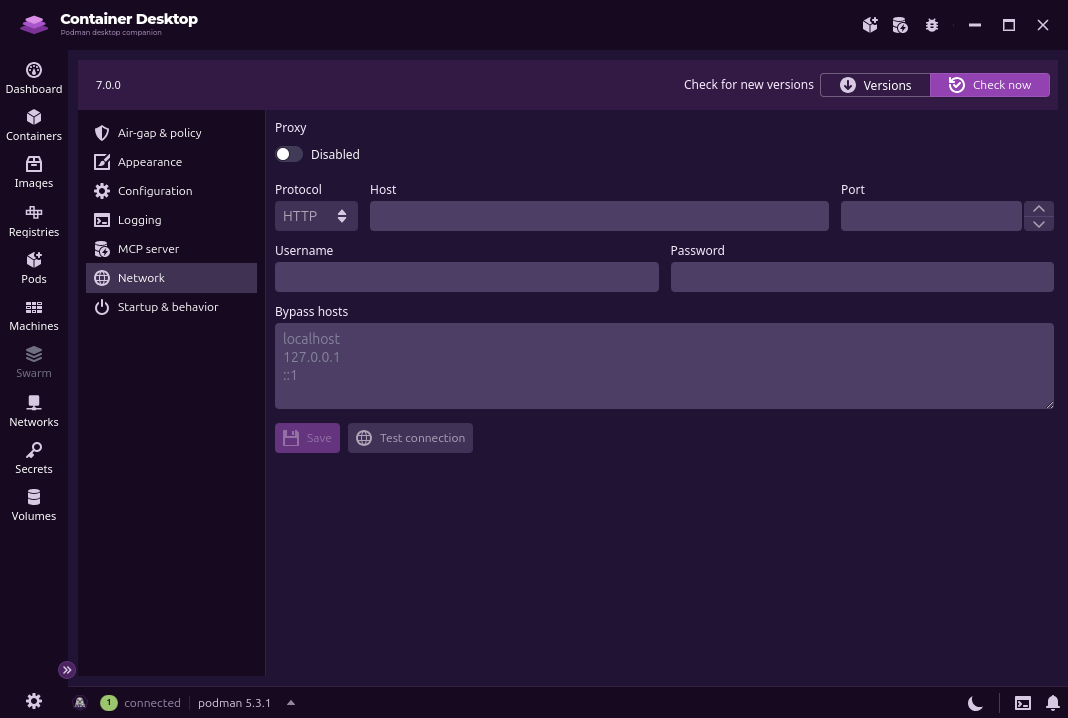
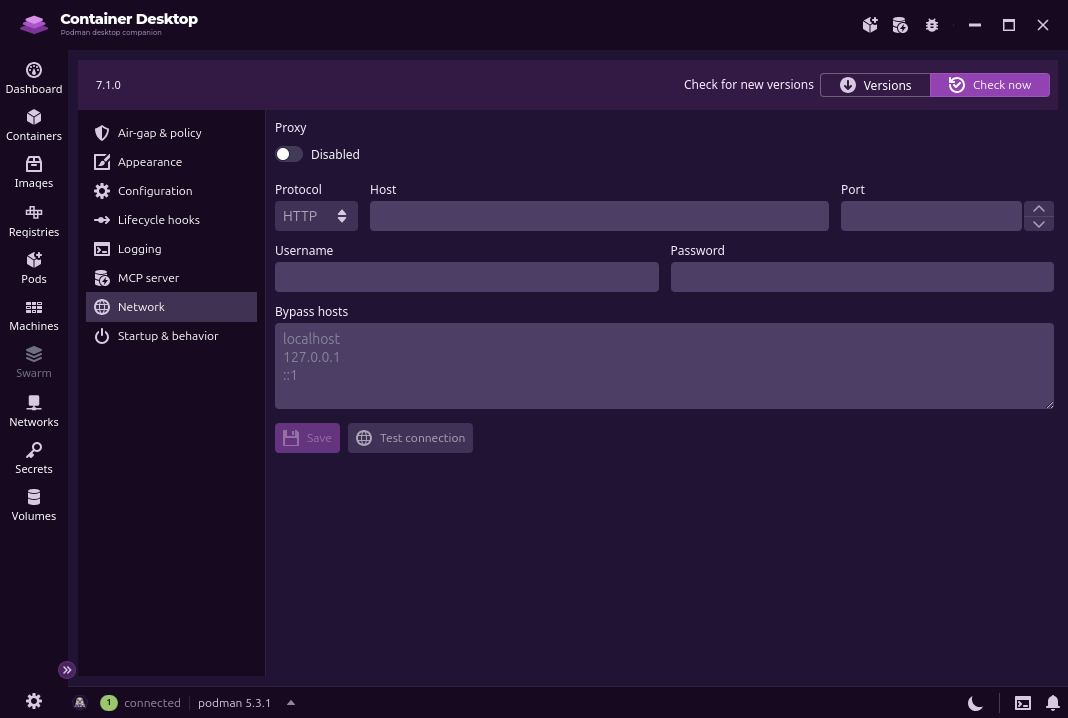
Release 7.1.0

Changed region(s): [[0.0618, 0.2758, 0.2472, 0.4903]]

diff --git a/website/index.html b/website/index.html
@@ -1,5 +1,5 @@
 <!DOCTYPE html>
-<html lang="en" data-version="7.0.0" data-theme="unified">
+<html lang="en" data-version="7.1.0" data-theme="unified">
 <head>
 <meta charset="UTF-8">
 <meta name="viewport" content="width=device-width, initial-scale=1.0">
@@ -7,11 +7,11 @@
 <title>Container Desktop — Podman, Docker &amp; Apple™ Container desktop UI for Windows, macOS, Linux</title>
 <meta name="description" content="A familiar, open-source desktop interface for Podman, Docker and Apple™ Container — local, remote over SSH, and WSL, the same UI on Windows, macOS and Linux. Free, MIT licensed.">
 <link rel="canonical" href="https://iongion.github.io/container-desktop/">
-<link rel="icon" href="/container-desktop/favicon.ico?v=7.0.0" type="image/x-icon">
-<link rel="icon" type="image/png" sizes="32x32" href="/container-desktop/favicon-32x32.png?v=7.0.0">
-<link rel="icon" type="image/png" sizes="16x16" href="/container-desktop/favicon-16x16.png?v=7.0.0">
-<link rel="apple-touch-icon" href="/container-desktop/apple-touch-icon.png?v=7.0.0">
-<link rel="mask-icon" href="/container-desktop/safari-pinned-tab.svg?v=7.0.0" color="#14b8a6">
+<link rel="icon" href="/container-desktop/favicon.ico?v=7.1.0" type="image/x-icon">
+<link rel="icon" type="image/png" sizes="32x32" href="/container-desktop/favicon-32x32.png?v=7.1.0">
+<link rel="icon" type="image/png" sizes="16x16" href="/container-desktop/favicon-16x16.png?v=7.1.0">
+<link rel="apple-touch-icon" href="/container-desktop/apple-touch-icon.png?v=7.1.0">
+<link rel="mask-icon" href="/container-desktop/safari-pinned-tab.svg?v=7.1.0" color="#14b8a6">
 <link rel="manifest" href="/container-desktop/site.webmanifest">
 <meta name="theme-color" content="#0f1521">
 <meta name="msapplication-config" content="/container-desktop/browserconfig.xml">
@@ -29,7 +29,7 @@
 <link rel="preconnect" href="https://fonts.gstatic.com" crossorigin="">
 <link href="https://fonts.googleapis.com/css2?family=Montserrat:wght@300;400;500;600;700;800&family=JetBrains+Mono:wght@400;600&display=swap" rel="stylesheet">
 <link rel="stylesheet" href="https://cdnjs.cloudflare.com/ajax/libs/font-awesome/6.6.0/css/all.min.css" referrerpolicy="no-referrer">
-<link rel="stylesheet" href="/container-desktop/assets/css/site.css?v=7.0.0">
+<link rel="stylesheet" href="/container-desktop/assets/css/site.css?v=7.1.0">
 <script type="application/ld+json">
 {
   "@context": "https://schema.org",
@@ -47,7 +47,7 @@
 </script>
 </head>
 <body>
-  <div class="announce"><span class="mono">★ v7.0.0</span><span>Open-source desktop UI for Podman, Docker &amp; Apple™ Container —</span><a href="/container-desktop/#download">download free →</a></div>
+  <div class="announce"><span class="mono">★ v7.1.0</span><span>Open-source desktop UI for Podman, Docker &amp; Apple™ Container —</span><a href="/container-desktop/#download">download free →</a></div>
   <header class="nav"><div class="wrap">
   <a class="brand" href="/container-desktop/"><span class="mark"><svg class="brand-mark" viewBox="0 0 270.93334 270.93334" xmlns="http://www.w3.org/2000/svg" aria-hidden="true" focusable="false">
   <rect x="14" y="14" width="242.93334" height="242.93334" rx="58" fill="var(--mark-bg, #0f1420)"></rect>
@@ -216,7 +216,7 @@
       <div class="os"><i class="fab fa-linux"></i></div>
       <h4>Linux</h4>
       <div class="meta">x86_64 · arm64</div>
-      <a class="btn btn-primary get" href="https://github.com/iongion/container-desktop/releases/download/7.0.0/container-desktop-linux-amd64-7.0.0.deb"><i class="fa-solid fa-download"></i><span class="get-label">Download .deb</span></a>
+      <a class="btn btn-primary get" href="https://github.com/iongion/container-desktop/releases/download/7.1.0/container-desktop-linux-amd64-7.1.0.deb"><i class="fa-solid fa-download"></i><span class="get-label">Download .deb</span></a>
       <div class="fmt">Debian/Ubuntu <b>.deb</b> package</div>
 
       <div class="dl-menu dl-package-menu">
@@ -230,11 +230,11 @@
           <div class="dl-package-row">
             <div class="dl-package-kind"><span class="dl-option-head"><span class="dl-option-title">Debian / Ubuntu</span><span class="dl-option-badge">.deb</span></span></div>
 
-            <a class="dl-menu-option" href="https://github.com/iongion/container-desktop/releases/download/7.0.0/container-desktop-linux-amd64-7.0.0.deb" data-primary="true" data-format="deb" data-arch="x64" data-label="Download .deb" data-note="Debian/Ubuntu &lt;b&gt;.deb&lt;/b&gt; package" data-text="Debian / Ubuntu · x86_64 (.deb)">
+            <a class="dl-menu-option" href="https://github.com/iongion/container-desktop/releases/download/7.1.0/container-desktop-linux-amd64-7.1.0.deb" data-primary="true" data-format="deb" data-arch="x64" data-label="Download .deb" data-note="Debian/Ubuntu &lt;b&gt;.deb&lt;/b&gt; package" data-text="Debian / Ubuntu · x86_64 (.deb)">
               <span class="dl-arch-meta">x86_64</span>
             </a>
 
-            <a class="dl-menu-option" href="https://github.com/iongion/container-desktop/releases/download/7.0.0/container-desktop-linux-arm64-7.0.0.deb" data-primary="false" data-format="deb" data-arch="arm64" data-label="Download .deb" data-note="Debian/Ubuntu &lt;b&gt;.deb&lt;/b&gt; package" data-text="Debian / Ubuntu · arm64 (.deb)">
+            <a class="dl-menu-option" href="https://github.com/iongion/container-desktop/releases/download/7.1.0/container-desktop-linux-arm64-7.1.0.deb" data-primary="false" data-format="deb" data-arch="arm64" data-label="Download .deb" data-note="Debian/Ubuntu &lt;b&gt;.deb&lt;/b&gt; package" data-text="Debian / Ubuntu · arm64 (.deb)">
               <span class="dl-arch-meta">arm64</span>
             </a>
 
@@ -243,11 +243,11 @@
           <div class="dl-package-row">
             <div class="dl-package-kind"><span class="dl-option-head"><span class="dl-option-title">Fedora / RHEL</span><span class="dl-option-badge">.rpm</span></span></div>
 
-            <a class="dl-menu-option" href="https://github.com/iongion/container-desktop/releases/download/7.0.0/container-desktop-linux-x86_64-7.0.0.rpm" data-primary="false" data-format="rpm" data-arch="x64" data-label="Download .rpm" data-note="Fedora/RHEL &lt;b&gt;.rpm&lt;/b&gt; package" data-text="Fedora / RHEL · x86_64 (.rpm)">
+            <a class="dl-menu-option" href="https://github.com/iongion/container-desktop/releases/download/7.1.0/container-desktop-linux-x86_64-7.1.0.rpm" data-primary="false" data-format="rpm" data-arch="x64" data-label="Download .rpm" data-note="Fedora/RHEL &lt;b&gt;.rpm&lt;/b&gt; package" data-text="Fedora / RHEL · x86_64 (.rpm)">
               <span class="dl-arch-meta">x86_64</span>
             </a>
 
-            <a class="dl-menu-option" href="https://github.com/iongion/container-desktop/releases/download/7.0.0/container-desktop-linux-aarch64-7.0.0.rpm" data-primary="false" data-format="rpm" data-arch="arm64" data-label="Download .rpm" data-note="Fedora/RHEL &lt;b&gt;.rpm&lt;/b&gt; package" data-text="Fedora / RHEL · arm64 (.rpm)">
+            <a class="dl-menu-option" href="https://github.com/iongion/container-desktop/releases/download/7.1.0/container-desktop-linux-aarch64-7.1.0.rpm" data-primary="false" data-format="rpm" data-arch="arm64" data-label="Download .rpm" data-note="Fedora/RHEL &lt;b&gt;.rpm&lt;/b&gt; package" data-text="Fedora / RHEL · arm64 (.rpm)">
               <span class="dl-arch-meta">arm64</span>
             </a>
 
@@ -256,11 +256,11 @@
           <div class="dl-package-row">
             <div class="dl-package-kind"><span class="dl-option-head"><span class="dl-option-title">Portable tarball</span><span class="dl-option-badge">.tar.gz</span></span></div>
 
-            <a class="dl-menu-option" href="https://github.com/iongion/container-desktop/releases/download/7.0.0/container-desktop-linux-x64-7.0.0.tar.gz" data-primary="false" data-format="tar.gz" data-arch="x64" data-label="Download .tar.gz" data-note="Portable &lt;b&gt;tarball&lt;/b&gt; — unpack &amp;amp; run" data-text="Portable tarball · x86_64 (.tar.gz)">
+            <a class="dl-menu-option" href="https://github.com/iongion/container-desktop/releases/download/7.1.0/container-desktop-linux-x64-7.1.0.tar.gz" data-primary="false" data-format="tar.gz" data-arch="x64" data-label="Download .tar.gz" data-note="Portable &lt;b&gt;tarball&lt;/b&gt; — unpack &amp;amp; run" data-text="Portable tarball · x86_64 (.tar.gz)">
               <span class="dl-arch-meta">x86_64</span>
             </a>
 
-            <a class="dl-menu-option" href="https://github.com/iongion/container-desktop/releases/download/7.0.0/container-desktop-linux-arm64-7.0.0.tar.gz" data-primary="false" data-format="tar.gz" data-arch="arm64" data-label="Download .tar.gz" data-note="Portable &lt;b&gt;tarball&lt;/b&gt; — unpack &amp;amp; run" data-text="Portable tarball · arm64 (.tar.gz)">
+            <a class="dl-menu-option" href="https://github.com/iongion/container-desktop/releases/download/7.1.0/container-desktop-linux-arm64-7.1.0.tar.gz" data-primary="false" data-format="tar.gz" data-arch="arm64" data-label="Download .tar.gz" data-note="Portable &lt;b&gt;tarball&lt;/b&gt; — unpack &amp;amp; run" data-text="Portable tarball · arm64 (.tar.gz)">
               <span class="dl-arch-meta">arm64</span>
             </a>
 
@@ -269,11 +269,11 @@
           <div class="dl-package-row">
             <div class="dl-package-kind"><span class="dl-option-head"><span class="dl-option-title">AppImage</span><span class="dl-option-badge">.AppImage</span></span></div>
 
-            <a class="dl-menu-option" href="https://github.com/iongion/container-desktop/releases/download/7.0.0/container-desktop-linux-x86_64-7.0.0.AppImage" data-primary="false" data-format="AppImage" data-arch="x64" data-label="Download .AppImage" data-note="Portable &lt;b&gt;AppImage&lt;/b&gt; — make executable &amp;amp; run" data-text="AppImage · x86_64 (.AppImage)">
+            <a class="dl-menu-option" href="https://github.com/iongion/container-desktop/releases/download/7.1.0/container-desktop-linux-x86_64-7.1.0.AppImage" data-primary="false" data-format="AppImage" data-arch="x64" data-label="Download .AppImage" data-note="Portable &lt;b&gt;AppImage&lt;/b&gt; — make executable &amp;amp; run" data-text="AppImage · x86_64 (.AppImage)">
               <span class="dl-arch-meta">x86_64</span>
             </a>
 
-            <a class="dl-menu-option" href="https://github.com/iongion/container-desktop/releases/download/7.0.0/container-desktop-linux-arm64-7.0.0.AppImage" data-primary="false" data-format="AppImage" data-arch="arm64" data-label="Download .AppImage" data-note="Portable &lt;b&gt;AppImage&lt;/b&gt; — make executable &amp;amp; run" data-text="AppImage · arm64 (.AppImage)">
+            <a class="dl-menu-option" href="https://github.com/iongion/container-desktop/releases/download/7.1.0/container-desktop-linux-arm64-7.1.0.AppImage" data-primary="false" data-format="AppImage" data-arch="arm64" data-label="Download .AppImage" data-note="Portable &lt;b&gt;AppImage&lt;/b&gt; — make executable &amp;amp; run" data-text="AppImage · arm64 (.AppImage)">
               <span class="dl-arch-meta">arm64</span>
             </a>
 
@@ -282,11 +282,11 @@
           <div class="dl-package-row">
             <div class="dl-package-kind"><span class="dl-option-head"><span class="dl-option-title">Arch Linux</span><span class="dl-option-badge">.pacman</span></span></div>
 
-            <a class="dl-menu-option" href="https://github.com/iongion/container-desktop/releases/download/7.0.0/container-desktop-linux-x64-7.0.0.pacman" data-primary="false" data-format="pacman" data-arch="x64" data-label="Download .pacman" data-note="Arch Linux &lt;b&gt;pacman&lt;/b&gt; package" data-text="Arch Linux · x86_64 (.pacman)">
+            <a class="dl-menu-option" href="https://github.com/iongion/container-desktop/releases/download/7.1.0/container-desktop-linux-x64-7.1.0.pacman" data-primary="false" data-format="pacman" data-arch="x64" data-label="Download .pacman" data-note="Arch Linux &lt;b&gt;pacman&lt;/b&gt; package" data-text="Arch Linux · x86_64 (.pacman)">
               <span class="dl-arch-meta">x86_64</span>
             </a>
 
-            <a class="dl-menu-option" href="https://github.com/iongion/container-desktop/releases/download/7.0.0/container-desktop-linux-aarch64-7.0.0.pacman" data-primary="false" data-format="pacman" data-arch="arm64" data-label="Download .pacman" data-note="Arch Linux &lt;b&gt;pacman&lt;/b&gt; package" data-text="Arch Linux · arm64 (.pacman)">
+            <a class="dl-menu-option" href="https://github.com/iongion/container-desktop/releases/download/7.1.0/container-desktop-linux-aarch64-7.1.0.pacman" data-primary="false" data-format="pacman" data-arch="arm64" data-label="Download .pacman" data-note="Arch Linux &lt;b&gt;pacman&lt;/b&gt; package" data-text="Arch Linux · arm64 (.pacman)">
               <span class="dl-arch-meta">arm64</span>
             </a>
 
@@ -301,10 +301,10 @@
       <div class="os"><i class="fab fa-apple"></i></div>
       <h4>macOS</h4>
       <div class="meta">Apple silicon</div>
-      <a class="btn btn-primary get" href="https://github.com/iongion/container-desktop/releases/download/7.0.0/container-desktop-mac-arm64-7.0.0.dmg"><i class="fa-solid fa-download"></i><span class="get-label">Download .dmg</span></a>
+      <a class="btn btn-primary get" href="https://github.com/iongion/container-desktop/releases/download/7.1.0/container-desktop-mac-arm64-7.1.0.dmg"><i class="fa-solid fa-download"></i><span class="get-label">Download .dmg</span></a>
       <div class="fmt">Standard <b>.dmg</b> disk image</div>
 
-      <div class="dl-links"><a href="https://github.com/iongion/container-desktop/releases/download/7.0.0/container-desktop-mac-arm64-7.0.0.tar.gz">Portable .tar.gz</a></div>
+      <div class="dl-links"><a href="https://github.com/iongion/container-desktop/releases/download/7.1.0/container-desktop-mac-arm64-7.1.0.tar.gz">Portable .tar.gz</a></div>
 
     </div>
     
@@ -339,11 +339,11 @@
           <div class="dl-package-row">
             <div class="dl-package-kind"><span class="dl-option-head"><span class="dl-option-title">Portable zip</span><span class="dl-option-badge">.zip</span></span></div>
 
-            <a class="dl-menu-option" href="https://github.com/iongion/container-desktop/releases/download/7.0.0/container-desktop-x64-7.0.0.zip" data-primary="false" data-format="zip" data-arch="x64" data-label="Download .zip" data-note="Portable &lt;b&gt;.zip&lt;/b&gt; archive" data-text="Portable zip · x86_64 (.zip)">
+            <a class="dl-menu-option" href="https://github.com/iongion/container-desktop/releases/download/7.1.0/container-desktop-x64-7.1.0.zip" data-primary="false" data-format="zip" data-arch="x64" data-label="Download .zip" data-note="Portable &lt;b&gt;.zip&lt;/b&gt; archive" data-text="Portable zip · x86_64 (.zip)">
               <span class="dl-arch-meta">x86_64</span>
             </a>
 
-            <a class="dl-menu-option" href="https://github.com/iongion/container-desktop/releases/download/7.0.0/container-desktop-arm64-7.0.0.zip" data-primary="false" data-format="zip" data-arch="arm64" data-label="Download .zip" data-note="Portable &lt;b&gt;.zip&lt;/b&gt; archive" data-text="Portable zip · arm64 (.zip)">
+            <a class="dl-menu-option" href="https://github.com/iongion/container-desktop/releases/download/7.1.0/container-desktop-arm64-7.1.0.zip" data-primary="false" data-format="zip" data-arch="arm64" data-label="Download .zip" data-note="Portable &lt;b&gt;.zip&lt;/b&gt; archive" data-text="Portable zip · arm64 (.zip)">
               <span class="dl-arch-meta">arm64</span>
             </a>
 
@@ -393,11 +393,11 @@
 </div></footer>
 
   <script async="" defer="" src="https://buttons.github.io/buttons.js"></script>
-  <script src="/container-desktop/assets/js/os-detect.js?v=7.0.0"></script>
-  <script src="/container-desktop/assets/js/manual-nav.js?v=7.0.0"></script>
-  <script src="/container-desktop/assets/js/theme-switcher.js?v=7.0.0"></script>
+  <script src="/container-desktop/assets/js/os-detect.js?v=7.1.0"></script>
+  <script src="/container-desktop/assets/js/manual-nav.js?v=7.1.0"></script>
+  <script src="/container-desktop/assets/js/theme-switcher.js?v=7.1.0"></script>
 
-  <script src="/container-desktop/assets/js/demo-replay.js?v=7.0.0"></script>
+  <script src="/container-desktop/assets/js/demo-replay.js?v=7.1.0"></script>
 
 </body>
 </html>

diff --git a/website/manual/index.html b/website/manual/index.html
@@ -1,5 +1,5 @@
 <!DOCTYPE html>
-<html lang="en" data-version="7.0.0" data-theme="unified">
+<html lang="en" data-version="7.1.0" data-theme="unified">
 <head>
 <meta charset="UTF-8">
 <meta name="viewport" content="width=device-width, initial-scale=1.0">
@@ -7,11 +7,11 @@
 <title>The Manual — Container Desktop setup guides for Podman, Docker &amp; Apple™ Container</title>
 <meta name="description" content="Set up Podman, Docker and Apple™ Container on Linux, macOS and Windows — native, virtualized, colima/LIMA or WSL. Every command, copy-paste ready.">
 <link rel="canonical" href="https://iongion.github.io/container-desktop/manual/">
-<link rel="icon" href="/container-desktop/favicon.ico?v=7.0.0" type="image/x-icon">
-<link rel="icon" type="image/png" sizes="32x32" href="/container-desktop/favicon-32x32.png?v=7.0.0">
-<link rel="icon" type="image/png" sizes="16x16" href="/container-desktop/favicon-16x16.png?v=7.0.0">
-<link rel="apple-touch-icon" href="/container-desktop/apple-touch-icon.png?v=7.0.0">
-<link rel="mask-icon" href="/container-desktop/safari-pinned-tab.svg?v=7.0.0" color="#14b8a6">
+<link rel="icon" href="/container-desktop/favicon.ico?v=7.1.0" type="image/x-icon">
+<link rel="icon" type="image/png" sizes="32x32" href="/container-desktop/favicon-32x32.png?v=7.1.0">
+<link rel="icon" type="image/png" sizes="16x16" href="/container-desktop/favicon-16x16.png?v=7.1.0">
+<link rel="apple-touch-icon" href="/container-desktop/apple-touch-icon.png?v=7.1.0">
+<link rel="mask-icon" href="/container-desktop/safari-pinned-tab.svg?v=7.1.0" color="#14b8a6">
 <link rel="manifest" href="/container-desktop/site.webmanifest">
 <meta name="theme-color" content="#0f1521">
 <meta name="msapplication-config" content="/container-desktop/browserconfig.xml">
@@ -29,7 +29,7 @@
 <link rel="preconnect" href="https://fonts.gstatic.com" crossorigin="">
 <link href="https://fonts.googleapis.com/css2?family=Montserrat:wght@300;400;500;600;700;800&family=JetBrains+Mono:wght@400;600&display=swap" rel="stylesheet">
 <link rel="stylesheet" href="https://cdnjs.cloudflare.com/ajax/libs/font-awesome/6.6.0/css/all.min.css" referrerpolicy="no-referrer">
-<link rel="stylesheet" href="/container-desktop/assets/css/site.css?v=7.0.0">
+<link rel="stylesheet" href="/container-desktop/assets/css/site.css?v=7.1.0">
 <script type="application/ld+json">
 {
   "@context": "https://schema.org",
@@ -47,7 +47,7 @@
 </script>
 </head>
 <body>
-  <div class="announce"><span class="mono">★ v7.0.0</span><span>Open-source desktop UI for Podman, Docker &amp; Apple™ Container —</span><a href="/container-desktop/#download">download free →</a></div>
+  <div class="announce"><span class="mono">★ v7.1.0</span><span>Open-source desktop UI for Podman, Docker &amp; Apple™ Container —</span><a href="/container-desktop/#download">download free →</a></div>
   <header class="nav"><div class="wrap">
   <a class="brand" href="/container-desktop/"><span class="mark"><svg class="brand-mark" viewBox="0 0 270.93334 270.93334" xmlns="http://www.w3.org/2000/svg" aria-hidden="true" focusable="false">
   <rect x="14" y="14" width="242.93334" height="242.93334" rx="58" fill="var(--mark-bg, #0f1420)"></rect>
@@ -90,7 +90,7 @@
       <div class="grp"><i class="fab fa-apple"></i> macOS</div><a href="#macos-req">Requirements</a><a href="#macos-quick">1 · Quick guide</a><a href="#macos-best">2 · Best experience</a><a href="#macos-podman-docker">3 · Podman as Docker</a><a href="#macos-dd-alt">4 · Docker Desktop alternative</a><a href="#macos-apple-container">5 · Apple™ Container</a><a href="#macos-share">6 · Sharing connection</a>
       <div class="grp"><i class="fab fa-windows"></i> Windows</div><a href="#windows-req">Requirements</a><a href="#windows-quick">1 · Quick guide</a><a href="#windows-best">2 · Best experience</a><a href="#windows-podman-docker">3 · Podman as Docker</a><a href="#windows-dd-alt">4 · Docker Desktop alternative</a><a href="#windows-podman-custom">5 · Podman custom install</a><a href="#windows-share">6 · Sharing connection</a><a href="#windows-tips">7 · Tips &amp; tricks</a>
       <div class="grp"><i class="fas fa-plug"></i> AI clients (MCP)</div><a href="#mcp-what">What it is</a><a href="#mcp-enable">Turn it on</a><a href="#mcp-http">Connect a client</a><a href="#mcp-stdio">Clients that only speak stdio</a><a href="#mcp-access">What clients may do</a>
-      <div class="grp"><i class="fas fa-book-open"></i> Using the app</div><a href="#using-notifications">Notification center &amp; activity log</a><a href="#using-build">Building images</a>
+      <div class="grp"><i class="fas fa-book-open"></i> Using the app</div><a href="#using-notifications">Notification center &amp; activity log</a><a href="#using-build">Building images</a><a href="#using-hooks">Lifecycle hooks</a>
       <div class="grp"><i class="fas fa-keyboard"></i> Keyboard shortcuts</div><a href="#shortcuts-find">Find</a><a href="#shortcuts-all">All shortcuts</a>
     </aside>
 
@@ -249,35 +249,34 @@ limactl shell docker   # login to the docker VM
 <ul>
 <li>Apple silicon Mac.</li>
 <li>macOS 26 Tahoe recommended. macOS 15 can run Apple <code>container</code>, but networking is degraded and some network commands are unavailable.</li>
-<li>Apple's <code>container</code> CLI installed from the <a href="https://github.com/apple/container/releases">official GitHub releases</a>.</li>
-<li>A compatible <code>socktainer</code> installation to expose a Docker Engine API socket.</li>
+<li>Apple's <code>container</code> CLI from the <a href="https://github.com/apple/container/releases">official GitHub releases</a>, or Homebrew's.</li>
+<li><code>socktainer</code>, which exposes a Docker Engine API socket, from its <a href="https://github.com/socktainer/socktainer/releases">releases</a> or Homebrew.</li>
 </ul>
 <h4>Install Apple™ Container</h4>
-<p>Download the signed installer package from the <a href="https://github.com/apple/container/releases">Apple container releases</a>, verify it, install it, then start the system service. The example below pins Apple™ Container <code>1.0.0</code>; if you choose a newer release, use that release's package name and checksum instead.</p>
-<pre><code class="language-bash">mkdir -p ~/Downloads/container-desktop-provision
-cd ~/Downloads/container-desktop-provision
+<p>The setup wizard does all of this for you. By hand: download Apple's signed package and socktainer's (the Docker-compatible API bridge), verify both, install both, then start the system service. The example pins Apple™ Container <code>1.7.1</code> and socktainer <code>1.6.1</code>; for newer releases use their package names and checksums. Use either these packages or Homebrew's <code>container</code> and <code>socktainer</code>, never both: two installs fight over one service.</p>
+<pre><code class="language-bash">cd &quot;$(mktemp -d)&quot;
 
-curl -L -o container-1.0.0-installer-signed.pkg \
-  https://github.com/apple/container/releases/download/1.0.0/container-1.0.0-installer-signed.pkg
+curl -L -o container-1.7.1-installer-signed.pkg \
+  https://github.com/apple/container/releases/download/1.7.1/container-1.7.1-installer-signed.pkg
+curl -L -o socktainer-installer.pkg \
+  https://github.com/socktainer/socktainer/releases/download/v1.6.1/socktainer-installer.pkg
 
-shasum -a 256 container-1.0.0-installer-signed.pkg
-# expect: 13f45f26da94c354adcbefe1e8f7631e7f126e93c5d4dd6a5a538aa66b4f479d
+shasum -a 256 container-1.7.1-installer-signed.pkg socktainer-installer.pkg
+# expect: b6739caf3d47ca53a78f1a7edf32521420a75c7941838c3cefa75f30b80f5a97  container-1.7.1-installer-signed.pkg
+# expect: d27a3ed4d37b421b17a1609e4575e3f227f1fcffb692b1a340d6e14ea178e9dc  socktainer-installer.pkg
 
-sudo installer -pkg container-1.0.0-installer-signed.pkg -target /
+sudo installer -pkg container-1.7.1-installer-signed.pkg -target /
+sudo installer -pkg socktainer-installer.pkg -target /
 
-container system start
+container system start --enable-kernel-install
 </code></pre>
-<h4>Install socktainer</h4>
-<p>Install the Docker-compatible API bridge:</p>
-<pre><code class="language-bash">brew tap socktainer/tap
-brew install socktainer
-</code></pre>
-<p>Start <code>socktainer</code> in the background and confirm that it exposes the Docker-compatible Unix socket:</p>
+<h4>Start socktainer</h4>
+<p>Start <code>socktainer</code> in the background, on the service already running, and confirm that its socket answers:</p>
 <pre><code class="language-bash">mkdir -p ~/.socktainer
-nohup socktainer &gt; ~/.socktainer/socktainer.log 2&gt;&amp;1 &amp;
+nohup /opt/socktainer/bin/socktainer --no-auto-start &gt; ~/.socktainer/socktainer.log 2&gt;&amp;1 &amp;
 
 sleep 2
-test -S &quot;$HOME/.socktainer/container.sock&quot; &amp;&amp; echo &quot;socktainer socket OK&quot;
+curl -sf --unix-socket &quot;$HOME/.socktainer/container.sock&quot; http://localhost/_ping &amp;&amp; echo &quot; socktainer OK&quot;
 </code></pre>
 <p>Verify the socket with the Docker Engine API endpoints Container Desktop uses:</p>
 <pre><code class="language-bash">curl --unix-socket &quot;$HOME/.socktainer/container.sock&quot; http://localhost/_ping
@@ -497,6 +496,17 @@ kernelCommandLine = ipv6.disable=1 cgroup_no_v1=all
 <p>Container Desktop builds container images for you — no terminal required. Open the <strong>Build Studio</strong> from the <strong>Build image</strong> button on the <strong>Images</strong> screen: author a Containerfile in the built-in editor (it <strong>lints as you type</strong>), set your tags, build args, target stage and platforms in the configuration panel, then hit <strong>Build image</strong> to run it on a native Podman or Docker engine. The <strong>Build run</strong> panel streams a <strong>Timeline</strong> — every step with a cache <strong>hit / miss</strong> badge and its duration — and, after a successful build, a <strong>Layers</strong> tab with a dive-style waterfall of the image's layers and sizes.</p>
 <img src="/container-desktop/img/podman/Build.png" alt="Building an image in the Build Studio">
 </section>
+<section class="guide-sec" id="using-hooks">
+<h3>Lifecycle hooks</h3>
+<p>Run a command of your own before a container or a compose stack starts, or after it stops: mount a share, seed a database, take a backup. Add them in <strong>Settings → Lifecycle hooks</strong>: pick the container (by name) or the stack (by compose project), its connection, and a <strong>Before start</strong> and/or <strong>After stop</strong> command.</p>
+<ul>
+<li>A hook runs <strong>on this computer, as you</strong>, for every start and stop: from the screens, the tray, bulk actions, or an AI client through the MCP server. A restart counts as a start.</li>
+<li>A failing <strong>Before start</strong> hook cancels the start and says why; a failing <strong>After stop</strong> hook is only reported.</li>
+<li>A stack hook runs once around the stack's <strong>Start all</strong>, <strong>Stop all</strong> and <strong>Restart all</strong>, where each container's own hooks run too. <strong>Import stack</strong>, tearing a stack down, and starting or stopping its pod run only the stack hook.</li>
+<li>Removing or unpausing a container runs no hook.</li>
+<li>A hook is a program and its arguments, run without a shell (wrap it in <code>sh -c &quot;…&quot;</code> for pipes or redirects), for up to 60 seconds. It gets <code>CD_HOOK</code> (<code>before-start</code> / <code>after-stop</code>), <code>CD_CONTAINER_ID</code>, <code>CD_CONTAINER_NAME</code>, <code>CD_CONNECTION</code>, <code>CD_ENGINE</code>, and <code>CD_STACK</code> for a stack.</li>
+</ul>
+</section>
 
       <div class="guide-os" id="shortcuts"><i class="fas fa-keyboard"></i><h2>Keyboard shortcuts</h2></div>
       <section class="guide-sec" id="shortcuts-find">
@@ -585,9 +595,9 @@ kernelCommandLine = ipv6.disable=1 cgroup_no_v1=all
 </div></footer>
 
   <script async="" defer="" src="https://buttons.github.io/buttons.js"></script>
-  <script src="/container-desktop/assets/js/os-detect.js?v=7.0.0"></script>
-  <script src="/container-desktop/assets/js/manual-nav.js?v=7.0.0"></script>
-  <script src="/container-desktop/assets/js/theme-switcher.js?v=7.0.0"></script>
+  <script src="/container-desktop/assets/js/os-detect.js?v=7.1.0"></script>
+  <script src="/container-desktop/assets/js/manual-nav.js?v=7.1.0"></script>
+  <script src="/container-desktop/assets/js/theme-switcher.js?v=7.1.0"></script>
 
 </body>
 </html>

diff --git a/website/privacy-policy.html b/website/privacy-policy.html
@@ -1,5 +1,5 @@
 <!DOCTYPE html>
-<html lang="en" data-version="7.0.0" data-theme="unified">
+<html lang="en" data-version="7.1.0" data-theme="unified">
 <head>
 <meta charset="UTF-8">
 <meta name="viewport" content="width=device-width, initial-scale=1.0">
@@ -7,11 +7,11 @@
 <title>Privacy policy — Container Desktop</title>
 <meta name="description" content="Container Desktop performs no telemetry and collects no data. Read the privacy policy.">
 <link rel="canonical" href="https://iongion.github.io/container-desktop/privacy-policy.html">
-<link rel="icon" href="/container-desktop/favicon.ico?v=7.0.0" type="image/x-icon">
-<link rel="icon" type="image/png" sizes="32x32" href="/container-desktop/favicon-32x32.png?v=7.0.0">
-<link rel="icon" type="image/png" sizes="16x16" href="/container-desktop/favicon-16x16.png?v=7.0.0">
-<link rel="apple-touch-icon" href="/container-desktop/apple-touch-icon.png?v=7.0.0">
-<link rel="mask-icon" href="/container-desktop/safari-pinned-tab.svg?v=7.0.0" color="#14b8a6">
+<link rel="icon" href="/container-desktop/favicon.ico?v=7.1.0" type="image/x-icon">
+<link rel="icon" type="image/png" sizes="32x32" href="/container-desktop/favicon-32x32.png?v=7.1.0">
+<link rel="icon" type="image/png" sizes="16x16" href="/container-desktop/favicon-16x16.png?v=7.1.0">
+<link rel="apple-touch-icon" href="/container-desktop/apple-touch-icon.png?v=7.1.0">
+<link rel="mask-icon" href="/container-desktop/safari-pinned-tab.svg?v=7.1.0" color="#14b8a6">
 <link rel="manifest" href="/container-desktop/site.webmanifest">
 <meta name="theme-color" content="#0f1521">
 <meta name="msapplication-config" content="/container-desktop/browserconfig.xml">
@@ -29,7 +29,7 @@
 <link rel="preconnect" href="https://fonts.gstatic.com" crossorigin="">
 <link href="https://fonts.googleapis.com/css2?family=Montserrat:wght@300;400;500;600;700;800&family=JetBrains+Mono:wght@400;600&display=swap" rel="stylesheet">
 <link rel="stylesheet" href="https://cdnjs.cloudflare.com/ajax/libs/font-awesome/6.6.0/css/all.min.css" referrerpolicy="no-referrer">
-<link rel="stylesheet" href="/container-desktop/assets/css/site.css?v=7.0.0">
+<link rel="stylesheet" href="/container-desktop/assets/css/site.css?v=7.1.0">
 <script type="application/ld+json">
 {
   "@context": "https://schema.org",
@@ -47,7 +47,7 @@
 </script>
 </head>
 <body>
-  <div class="announce"><span class="mono">★ v7.0.0</span><span>Open-source desktop UI for Podman, Docker &amp; Apple™ Container —</span><a href="/container-desktop/#download">download free →</a></div>
+  <div class="announce"><span class="mono">★ v7.1.0</span><span>Open-source desktop UI for Podman, Docker &amp; Apple™ Container —</span><a href="/container-desktop/#download">download free →</a></div>
   <header class="nav"><div class="wrap">
   <a class="brand" href="/container-desktop/"><span class="mark"><svg class="brand-mark" viewBox="0 0 270.93334 270.93334" xmlns="http://www.w3.org/2000/svg" aria-hidden="true" focusable="false">
   <rect x="14" y="14" width="242.93334" height="242.93334" rx="58" fill="var(--mark-bg, #0f1420)"></rect>
@@ -113,9 +113,9 @@
 </div></footer>
 
   <script async="" defer="" src="https://buttons.github.io/buttons.js"></script>
-  <script src="/container-desktop/assets/js/os-detect.js?v=7.0.0"></script>
-  <script src="/container-desktop/assets/js/manual-nav.js?v=7.0.0"></script>
-  <script src="/container-desktop/assets/js/theme-switcher.js?v=7.0.0"></script>
+  <script src="/container-desktop/assets/js/os-detect.js?v=7.1.0"></script>
+  <script src="/container-desktop/assets/js/manual-nav.js?v=7.1.0"></script>
+  <script src="/container-desktop/assets/js/theme-switcher.js?v=7.1.0"></script>
 
 </body>
 </html>

diff --git a/CHANGELOG.md b/CHANGELOG.md
@@ -7,6 +7,8 @@ and this project adheres to [Semantic Versioning](https://semver.org/spec/v2.0.0
 
 ## [Unreleased]
 
+## [7.1.0] - 2026-11-27
+
 ### Added
 
 - Lifecycle hooks (Settings → Lifecycle hooks): a command of your own runs before a container or a compose stack starts, or after it stops, whoever starts or stops it, AI clients through the MCP server included; a failing before-start hook cancels the start
